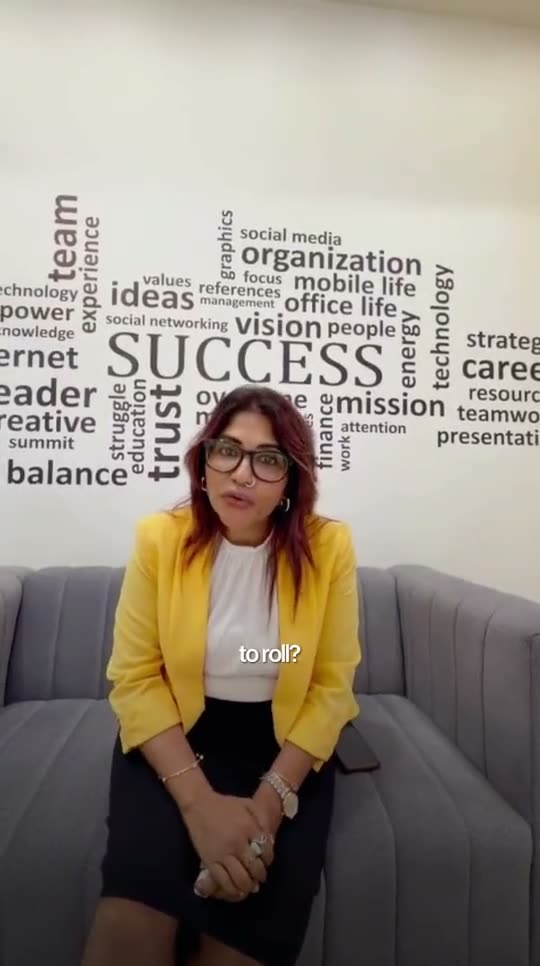
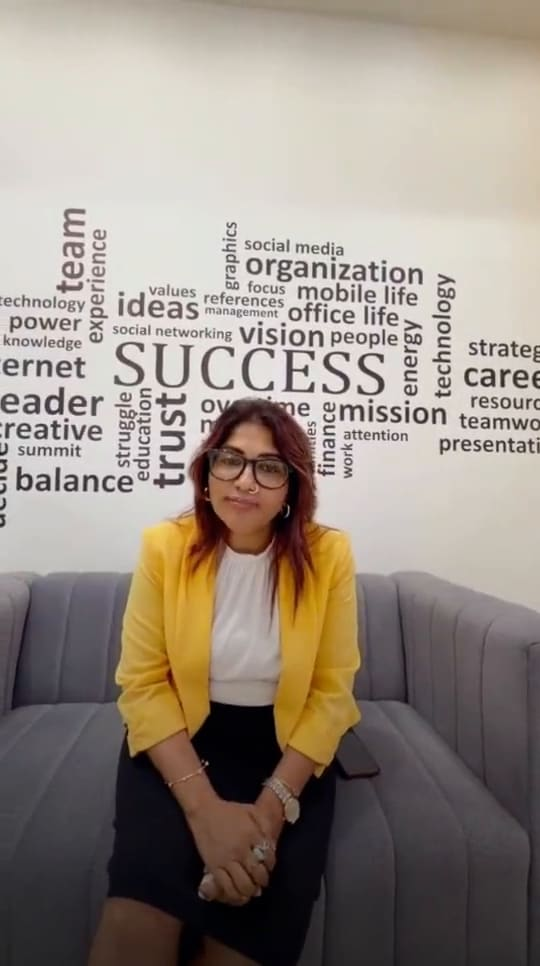
Homepage video, moving brands strip, case-study covers, no testimonial year
- Homepage hero: Arrpita's intro video in the right column (shared
  FounderVideo component, also used by the ads landing page); the
  "Ethnography." signature becomes a horizontal band under the hero.
- Video poster: the first frame with no burned-in caption (the old one
  showed a cut-off "to roll?").
- "Brands that Arrpita worked with": an 11-brand CSS marquee that pauses
  on hover and via a Pause button, and stands still under reduced motion.
  New logos: BYJU'S (company's own SVG) and Save the Children (its own
  Commons upload). EverYuth is text until a logo is supplied; DST stays
  text because its logo carries the State Emblem of India.
- Case studies get an optional cover image (cover/coverAlt in the
  schema); the /case-studies/ index and the landing page both read it.
- Testimonials no longer show a year.

diff --git a/src/content/config.ts b/src/content/config.ts
@@ -44,7 +44,7 @@ const insights = defineCollection({
 
 const caseStudies = defineCollection({
   type: 'content',
-  schema: base.extend({
+  schema: ({ image }) => base.extend({
     industry: z.string(),
     // An outcome, shown with an ↑ arrow ("30% sales growth, year one"). Leave it out
     // when a study has no outcome number — use `scope` instead, so the arrow never
@@ -55,6 +55,13 @@ const caseStudies = defineCollection({
     services: z.array(z.string()).default([]),
     publishDate: z.coerce.date().optional(),
     summary: z.string().optional(),
+    // Card image on the case-studies index and the ads landing page. The owner's
+    // covers are illustrations, not fieldwork photos, so the alt says so.
+    cover: image().optional(),
+    coverAlt: z.string().optional(),
+  }).refine((d) => !d.cover || !!d.coverAlt, {
+    message: 'coverAlt is required when cover is set',
+    path: ['coverAlt'],
   }),
 });
 

diff --git a/src/lib/constants.ts b/src/lib/constants.ts
@@ -62,14 +62,12 @@ export const BRAND = {
         'Arrpita was given a research project on ethnography and she has delivered the insights in the most scientific manner. Her ability to take the project to conclusion, understand the domain, understand behaviours and then connect the dots to get unique insights was commendable.',
       name: 'Farida Hussain',
       relationship: 'Chief Marketing Officer, USV',
-      year: 2025,
     },
     {
       quote:
         'Arrpita worked with us on a couple of ethnography projects. She clearly knows her subject very well. She did her studies and brought out insights that were consistent with our understanding. It was therefore a good validation. She is a purist and follows methodologies and styles accordingly.',
       name: 'Kaushik Majumder',
       relationship: 'Former CEO',
-      year: 2018,
     },
   ],
 

diff --git a/CLAUDE.md b/CLAUDE.md
@@ -56,7 +56,7 @@ Spelling: **double `r`** ("Arrpita"). The single-`r` "Arpita" is a real, recurri
 
 Swapping the photo means replacing the file at the same path; the asset URL is hardcoded as `/arrpita.jpg` in both consumers.
 
-**Testimonials** live in `BRAND.testimonials` and render through `src/components/content/Testimonials.astro` on the homepage (just before `ContactCTA`), `/for-d2c-brands/` and `/about/`. They are deliberately **not** on the Google Ads landing page: the agency asked for that section to be removed (4 Oct 2026). They are LinkedIn recommendations of Arrpita, so three rules hold: (1) quotes are **verbatim as supplied by the owner** (the full text came in "Website content_Sept 15.docx", 15 Sep 2026), correcting only "Arpita" → "Arrpita" and obvious typos — never complete, embellish or tidy a quote, and mark any cut with "…"; (2) the block is framed around **Arrpita** ("What people who've worked with Arrpita say") and each `relationship` describes the tie to her, because recommendations can predate Avant Amour — the same prior-work rule as the Voice rules below; (3) **no `Review` or `AggregateRating` JSON-LD** — Google treats a business's reviews of itself on its own site as self-serving and ineligible for review snippets. Keep to a few placements; two quotes repeated on every page read as thin. Farida Hussain is CMO of USV — a named prior-research client — while the health & nutrition case study is anonymised, so her quote must never appear on that case study page or on the case-studies index (together they would name the brand behind the 30% result).
+**Testimonials** live in `BRAND.testimonials` and render through `src/components/content/Testimonials.astro` on the homepage (just before `ContactCTA`), `/for-d2c-brands/` and `/about/`. They are deliberately **not** on the Google Ads landing page: the agency asked for that section to be removed (4 Oct 2026). No year is shown (owner, 10 Oct 2026). They are LinkedIn recommendations of Arrpita, so three rules hold: (1) quotes are **verbatim as supplied by the owner** (the full text came in "Website content_Sept 15.docx", 15 Sep 2026), correcting only "Arpita" → "Arrpita" and obvious typos — never complete, embellish or tidy a quote, and mark any cut with "…"; (2) the block is framed around **Arrpita** ("What people who've worked with Arrpita say") and each `relationship` describes the tie to her, because recommendations can predate Avant Amour — the same prior-work rule as the Voice rules below; (3) **no `Review` or `AggregateRating` JSON-LD** — Google treats a business's reviews of itself on its own site as self-serving and ineligible for review snippets. Keep to a few placements; two quotes repeated on every page read as thin. Farida Hussain is CMO of USV — a named prior-research client — while the health & nutrition case study is anonymised, so her quote must never appear on that case study page or on the case-studies index (together they would name the brand behind the 30% result).
 
 `NAV` and `FOOTER_LINKS` are also in `constants.ts`. Adding a route to the site means adding it here too.
 
@@ -68,7 +68,7 @@ Five collections defined in `src/content/config.ts`:
 |---|---|---|
 | `services` | `src/content/services/*.mdx` | `methodologyType`, `relatedServices` (service slugs), `order`, `summary` |
 | `insights` | `src/content/insights/*.mdx` | `publishDate` (required), `author`, `tags`, `glossaryRefs` (glossary slugs), `relatedPosts` (insights slugs) |
-| `case-studies` | `src/content/case-studies/*.mdx` | `industry`, `metric?` (an outcome, shown with ↑), `scope?` (what was studied, for work with no outcome number — shown without the arrow), `services` (service slugs), `summary?` |
+| `case-studies` | `src/content/case-studies/*.mdx` | `industry`, `metric?` (an outcome, shown with ↑), `scope?` (what was studied, for work with no outcome number — shown without the arrow), `services` (service slugs), `summary?`, `cover?` (image, `src/assets/case-studies/<topic>/cover.png`) + `coverAlt` (required when `cover` is set) |
 | `glossary` | `src/content/glossary/*.mdx` | `category`, `relatedTerms` (glossary slugs) |
 | `pages` | `src/content/pages/*.mdx` (reserved; directory not yet created) | (base only) |
 
@@ -115,10 +115,10 @@ Every page route renders through `BaseLayout.astro`, which slots in `SEO.astro` 
 - **Brands are framed around Arrpita** ("Brands Arrpita has done research for"): the list mixes her pre-Avant Amour clients with Avant Amour's own, and that heading is true for all of them. AstraZeneca, Autodesk and Ameriprise are the official marks fetched from Wikimedia at the owner's request (`public/logos/`); `*-tight.png` are whitespace-trimmed copies of the homepage logos, used only here so the homepage strip is unchanged. Logos are sized by area (`logoHeight`), not by height, so square and long marks look equally weighty.
 - **Its form is `landing-enquiry`**, separate from `/contact/`'s `contact` form so ad leads are distinguishable; Netlify emails connect@ for any form. Hidden `utm_*` fields are filled from the ad URL. **No `gclid`**: an ad-click identifier tied to a named lead without consent would sidestep the default-deny posture. The privacy policy discloses the campaign/keyword capture and the extra fields (phone, designation, industry).
 - **Each form has its own thank-you page** (agency request, 5 Oct 2026): `/contact/` → `/thank-you/`, `/market-research-company/` → `/market-research-company/thank-you/`, so ad leads have a conversion URL of their own. Both render `src/components/content/ThankYou.astro` with `formPath`; its inline script fires only on a fresh navigation whose referrer is that form page, then sends GA4 `generate_lead` (with `form_page`) via gtag and pushes `{event: 'enquiry_submitted', form_page}` to the dataLayer for a GTM trigger. The dataLayer name differs from the GA4 event on purpose, so nothing can count one lead twice under one name. Prefer the `enquiry_submitted` custom-event trigger over a page-view trigger on the thank-you URL: a page view also counts reloads and direct visits. **Events are sent only on the live host** (`data-live-host`, from `BRAND.url`); on deploy previews and localhost a genuine submission logs `[lead] …` to the console instead, so test leads never reach GA4. Both form pages strip the URL query on submit (`history.replaceState`), because Netlify stores the page address with each submission and an ad click's `gclid` would otherwise sit beside a named lead.
-- **Founder video** is self-hosted at `public/video/arrpita-intro.mp4` (63 s, 540×966, 5.8 MB, captions burned in) with `arrpita-intro-poster.jpg`, set in the page's `video` const (`null` falls back to the portrait). The owner's source file was a vertical phone video pillarboxed into 1920×1080 with blurred side bars, so it was cropped to the picture (`crop=604:1080:658:0`), scaled to 540 wide and re-encoded with ffmpeg (H.264 CRF 26, AAC 96k, `+faststart`). It is `preload="none"`, so nothing downloads until play. It sits inside the About section, after the heading and text (agency feedback, 4 Oct 2026): placed first in the source, it showed above the "About us" heading on phones and looked detached from it. Do not embed Google Drive or YouTube; both are third-party players that load before consent.
+- **Founder video** is self-hosted at `public/video/arrpita-intro.mp4` (63 s, 540×966, 5.8 MB, captions burned in) with `arrpita-intro-poster.jpg`, rendered by `src/components/content/FounderVideo.astro`, which the homepage hero also uses (owner request, 10 Oct 2026). The poster is the frame at 2.0 s, the first one with no burned-in caption (an earlier poster showed a cut-off "to roll?"). The video's own name caption at about 3–10 s reads "Arpita" (single r); it is burned in, so it can only be fixed by re-editing the source — the owner was told on 10 Oct 2026. The owner's source file was a vertical phone video pillarboxed into 1920×1080 with blurred side bars, so it was cropped to the picture (`crop=604:1080:658:0`), scaled to 540 wide and re-encoded with ffmpeg (H.264 CRF 26, AAC 96k, `+faststart`). It is `preload="none"`, so nothing downloads until play. It sits inside the About section, after the heading and text (agency feedback, 4 Oct 2026): placed first in the source, it showed above the "About us" heading on phones and looked detached from it. Do not embed Google Drive or YouTube; both are third-party players that load before consent.
 - The page keeps the site header and footer; its CTAs point to `#enquiry` (the form) or WhatsApp, not `/contact/`.
 - **The hero is heading, ticks and form only** (agency feedback, 5 Oct 2026): no sub-line, no "Request a proposal" button and no case-studies link above the form. The H1 reads "Your India partner for ethnography, market research and consumer insight". Do not re-add a hero CTA; the form is the call to action. Under the H1 sits `src/assets/landing/india-fieldwork.png`, an owner-supplied illustration (7 Oct 2026; it replaced a clip-art stand-in).
-- **Case studies row** (owner request, 7 Oct 2026) sits between the brands and the closing ask, so the page still ends on the call to action: four cards in a native horizontal scroll (`scroll-snap`, swipe/trackpad), with previous/next buttons on md+ that stay invisible until the inline script runs. Titles, descriptions and badges come from the `case-studies` collection; the page's `caseStudyImages` map (keyed by slug, which also sets the order) holds the owner-supplied illustrations in `src/assets/landing/case-studies/<slug>.png`. These and the hero image depict scenes, not real fieldwork, so their alt text starts "Illustration". The health & nutrition study is Arrpita's prior-career USV work, so the section's line "where the work predates Avant Amour, it is Arrpita's earlier research" must stay — and this page also shows the USV logo in the brands row, a pairing the owner was told about (7 Oct 2026).
+- **Case studies row** (owner request, 7 Oct 2026) sits between the brands and the closing ask, so the page still ends on the call to action: four cards in a native horizontal scroll (`scroll-snap`, swipe/trackpad), with previous/next buttons on md+ that stay invisible until the inline script runs. Titles, descriptions, badges and images come from the `case-studies` collection (`cover` / `coverAlt`, also shown on the `/case-studies/` index); the page's `caseStudyOrder` sets which four and in what order. The covers and the hero image are owner-supplied illustrations that depict scenes, not real fieldwork, so their alt text starts "Illustration". The health & nutrition study is Arrpita's prior-career USV work, so the section's line "where the work predates Avant Amour, it is Arrpita's earlier research" must stay — and this page also shows the USV logo in the brands row, a pairing the owner was told about (7 Oct 2026).
 
 ## FAQ system
 
@@ -182,9 +182,10 @@ Defined in `tsconfig.json`. Use them in imports — do not write relative paths 
 - Section rhythm: alternate `<Section background="cream">` and `<Section background="paper">`. Padding is `py-16 md:py-24`.
 - Display type is **Fraunces** (`font-display`), body is **Inter** (`font-sans`). Both load from Google Fonts in `BaseLayout.astro`.
 - Animations must honour `prefers-reduced-motion` — the rule is already in `global.css`; if you add new animations, verify they fall back.
+- **Homepage hero** puts the founder video in the right column (`FounderVideo`, framed, max 18rem wide) and runs the "Ethnography." signature as a horizontal, `aria-hidden` band under the hero from md up (owner request, 10 Oct 2026; it used to fill the right column).
 - **Logo lockup** in `Header.astro` and `Footer.astro` uses `public/logo-mark-sm.png` (139×144, 2 KB), a downsized copy of `public/logo-mark.png` (385×400, 30 KB) made 5 Oct 2026 because PageSpeed flagged the original as 29 KB of waste at its 40–48px display size. It is a clean mark-only asset (the A + sunburst, transparent background, no caption). If the mark changes, regenerate the small copy from the original. Plain `<img class="h-10 w-auto"/>` in the header, `h-12 w-auto` in the footer; the parent `<a>` is `flex items-center` for shared centre-line with the "Avant Amour" wordmark. The older `public/logo.svg` and `public/logo.png` still exist for backwards compatibility but should not be reintroduced into the lockup — they contain a baked-in "AVANT AMOUR" caption that renders as an illegible blur at small sizes.
 - **Interior layout spacing** is calibrated: header band ends with `pb-10 md:pb-14`, body section starts with `pt-8 md:pt-12 pb-12 md:pb-20`. Raising the body's top padding stacks against the header band's bottom padding and re-creates a ~50px empty stretch between the H1+intro and the first content block. The same pattern is used by all five interior layouts (Service / Page / Insights / CaseStudy / Glossary) for cross-page consistency.
-- **Prior-research logos** live at `public/logos/{adobe,rapido,usv,zee5}.png`, consumed by `src/components/home/CredibilityStrip.astro`. Source PNGs must be transparent-background; if they aren't, the resting `opacity: 0.85` treatment will reveal the white rectangle. The directory name and every filename **must be lowercase** — Windows dev (NTFS) is case-insensitive, but Netlify serves on Linux, so a `/Logos/Zee5.png` reference will render fine locally and 404 in production. Same rule for any new asset path under `public/`: lowercase the directory and the basename.
+- **Brands strip** (`src/components/home/CredibilityStrip.astro`, under the homepage hero) is headed "Brands that Arrpita worked with" (owner, 10 Oct 2026) — framed around her because the list mixes her pre-Avant Amour clients with Avant Amour's own. It is a CSS marquee: two identical tracks slide left and loop, pause on hover and via a Pause button that the inline script reveals (WCAG 2.2.2), and stand still, wrapped and centred, under `prefers-reduced-motion`. Logos are sized by area (`logoHeight`). Files live in `public/logos/` (`*-tight.png` are whitespace-trimmed copies). BYJU'S was rendered from the company's own SVG on byjus.com (the Commons copy is a fan redraw with the wrong tagline colour); Save the Children is its own upload on Commons. **EverYuth** is a text wordmark until the owner supplies a logo. **DST (Govt of India)** is text on purpose: its logo carries the State Emblem of India, whose use on a business site is restricted by the State Emblem of India (Prohibition of Improper Use) Act, 2005 — do not swap in the logo. Source PNGs must be transparent-background; if they aren't, the resting `opacity: 0.85` treatment will reveal the white rectangle. The directory name and every filename **must be lowercase** — Windows dev (NTFS) is case-insensitive, but Netlify serves on Linux, so a `/Logos/Zee5.png` reference will render fine locally and 404 in production. Same rule for any new asset path under `public/`: lowercase the directory and the basename.
 
 ## Stop and ask before
 
